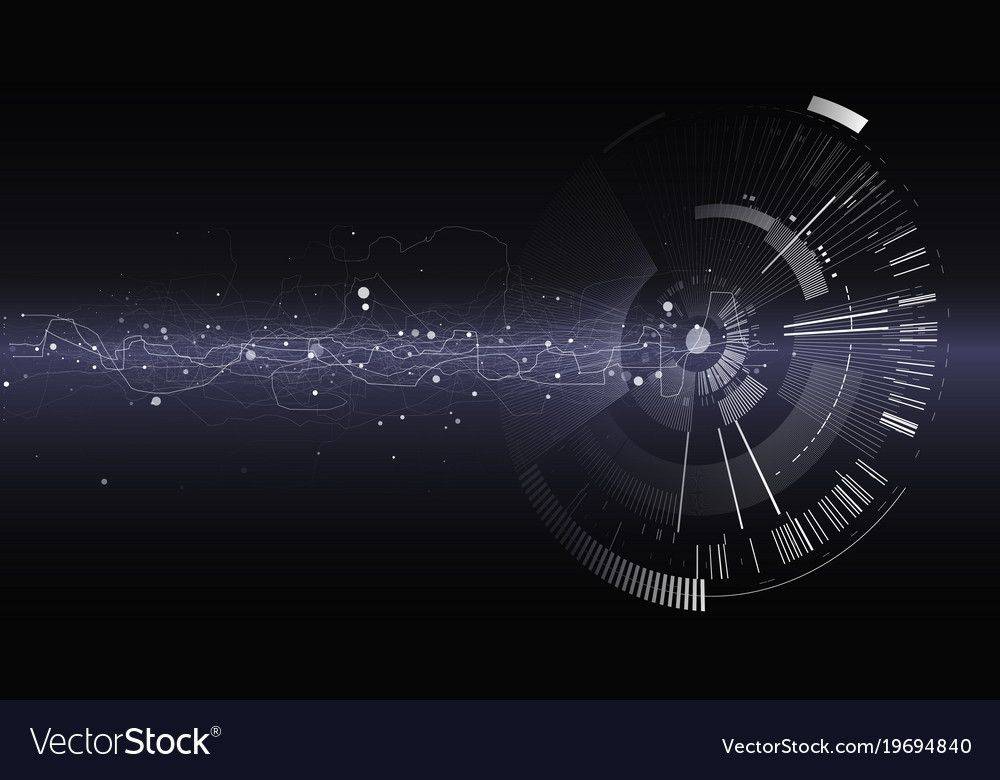
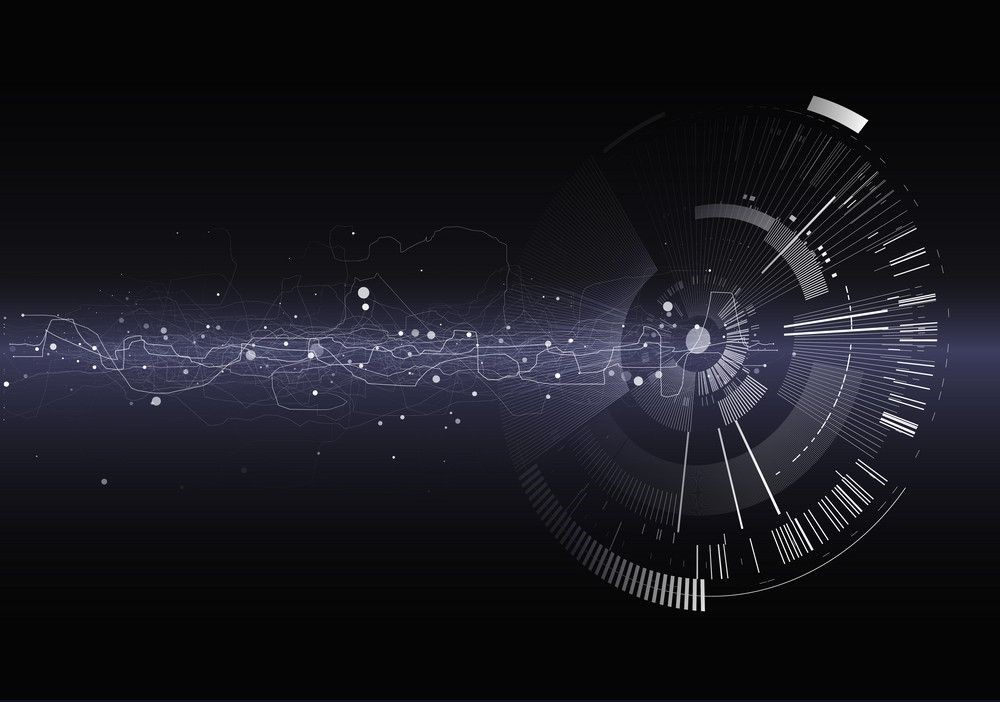
04-12-2022 time 10:26

Changed region(s): [[0.0, 0.1197, 1.0, 0.8675], [0.0, 0.8974, 1.0, 1.0]]

diff --git a/src/pages/Header.js b/src/pages/Header.js
@@ -1,0 +1,20 @@
+import React from 'react';
+import './Header.css';
+import background from '../img/background.jpg'
+
+
+function Header() {
+    return (
+        <div className="Header">
+            <div className="headertitle">
+                <span className="headertitleSm">React & node</span>
+                <span className="headertitleLg">Blog</span>
+            </div>
+
+            <img src={background} alt="" className="headerimg" />
+            
+        </div>
+    )
+}
+
+export default Header;

diff --git a/src/pages/Home.jsx b/src/pages/Home.jsx
@@ -1,10 +1,12 @@
 import React from 'react';
+import Header from './Header.js';
 import '../pages/Home.css';
 
 function Home() {
     return (
         <div className='Home' >
-            <div className='home-title'><h1>Update The World With New Tech</h1></div>
+        <Header/>
+            
 
         </div>
     );

diff --git a/src/pages/Header.css b/src/pages/Header.css
@@ -1,0 +1,20 @@
+*{
+    margin: 0px;
+    padding: 0px;
+    border: 0px;
+}
+
+.headertitle{
+    display: flex;
+    align-items: center;
+    justify-content:center;
+}
+
+.headerimg{
+    width: 100%;
+    background-size: cover;
+}
+
+.headerimg{
+    
+}

diff --git a/src/pages/Home.css b/src/pages/Home.css
@@ -5,7 +5,6 @@
 }
 
 .Home{
-    background-image: url("../img/background.jpg");
     min-width: 980px;
     min-height: 1000px;
     background-repeat: no-repeat;
